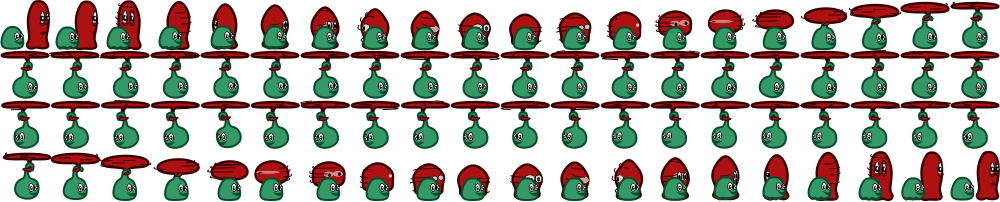
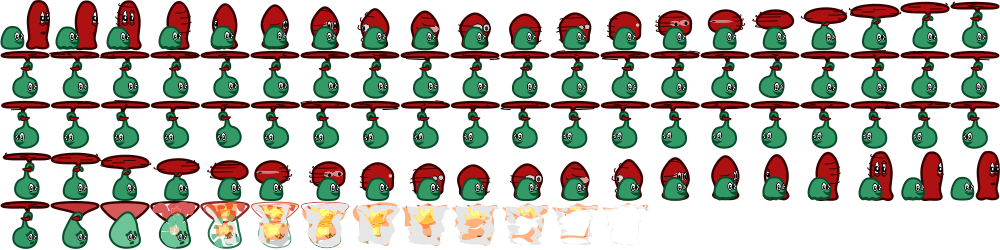
Heli death animation added

diff --git a/src/BlobApp/Entities/EntityTypes/Heli.js b/src/BlobApp/Entities/EntityTypes/Heli.js
@@ -33,7 +33,9 @@ BlobApp.Heli = (function Heli(x_pos, y_pos) {
 				startAni: [0,19, "moveRight"],
 				moveRight: [20, 39],
 				moveLeft: [40, 59],
-				stop: [60, 79]
+				stop: [60, 79],
+				death: [80, 93, "afterDeath"],
+				afterDeath: [94, 94, "afterDeath"]
 			}
 		}
 
@@ -66,6 +68,7 @@ BlobApp.Heli = (function Heli(x_pos, y_pos) {
 	},
 
 	_animate = function(event, data) {	
+		if(sprite.currentAnimation == "death" || sprite.currentAnimation == "afterDeath") return;
 		switch(data.animationKey){
 			case AnimationKeys.MOVERIGHT:
 				if(sprite.currentAnimation != "moveRight") {
@@ -84,6 +87,11 @@ BlobApp.Heli = (function Heli(x_pos, y_pos) {
 					sprite.gotoAndPlay("stop");
 				}
 			break;
+
+			case AnimationKeys.DEATH:
+				if(sprite.currentAnimation != "death") {
+					sprite.gotoAndPlay("death");
+				}
 		}
 	},
 

diff --git a/src/BlobApp/Handlers/CollisionHandler.js b/src/BlobApp/Handlers/CollisionHandler.js
@@ -397,8 +397,10 @@ BlobApp.CollisionHandler = (function() {
 	private._playerOnSpikes = function(playerName) {
 		if (playerName == "greenBlob") {
 			$('body').trigger("blobanimationChanged", {blobID: EntityConfig.GREENBLOBID, animationKey: AnimationKeys.DEATH});
-		} else {
+		} else if (playerName == "redBlob") {
 			$('body').trigger("blobanimationChanged", {blobID: EntityConfig.REDBLOBID, animationKey: AnimationKeys.DEATH});
+		} else if (playerName == "heli") {
+			$('body').trigger("heliAnimationChanged", {animationKey: AnimationKeys.DEATH});			
 		}
 
 		$('body').trigger('playerOnSpikes', playerName);
